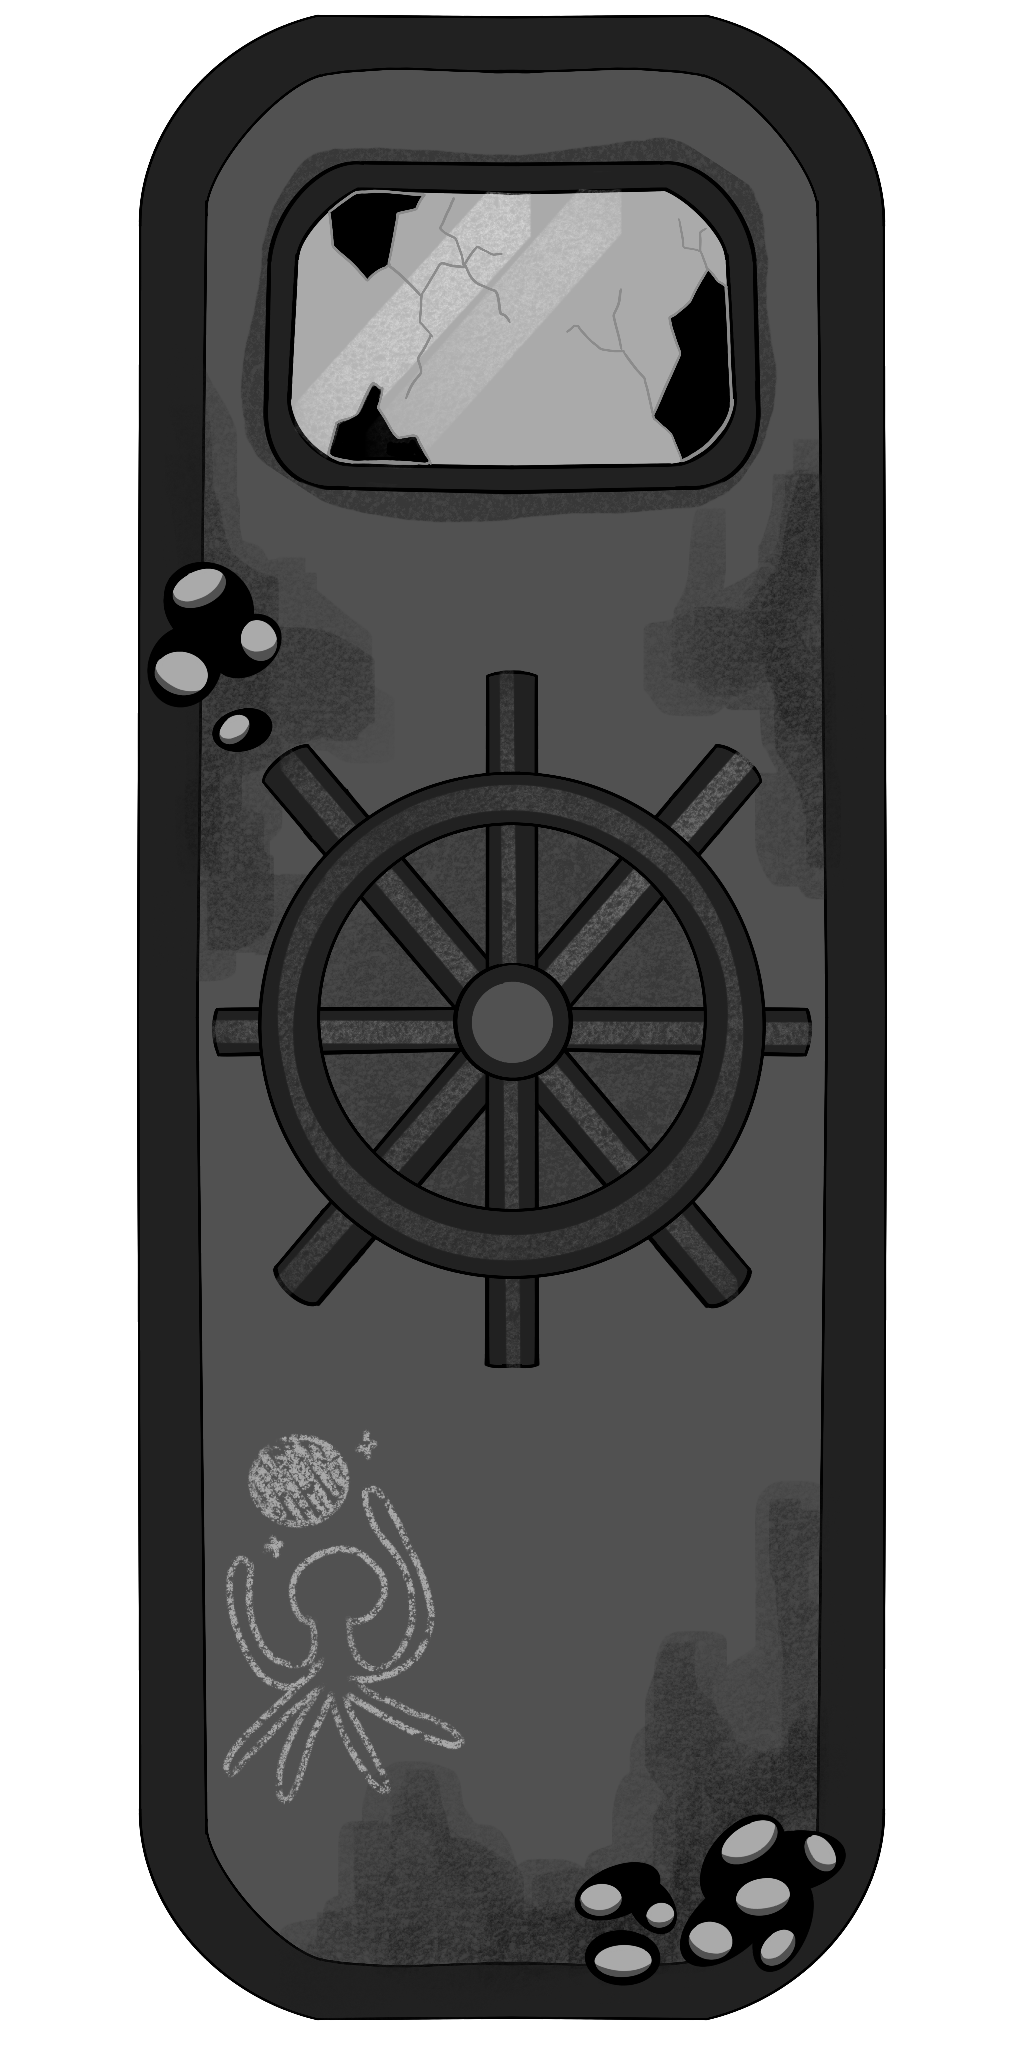
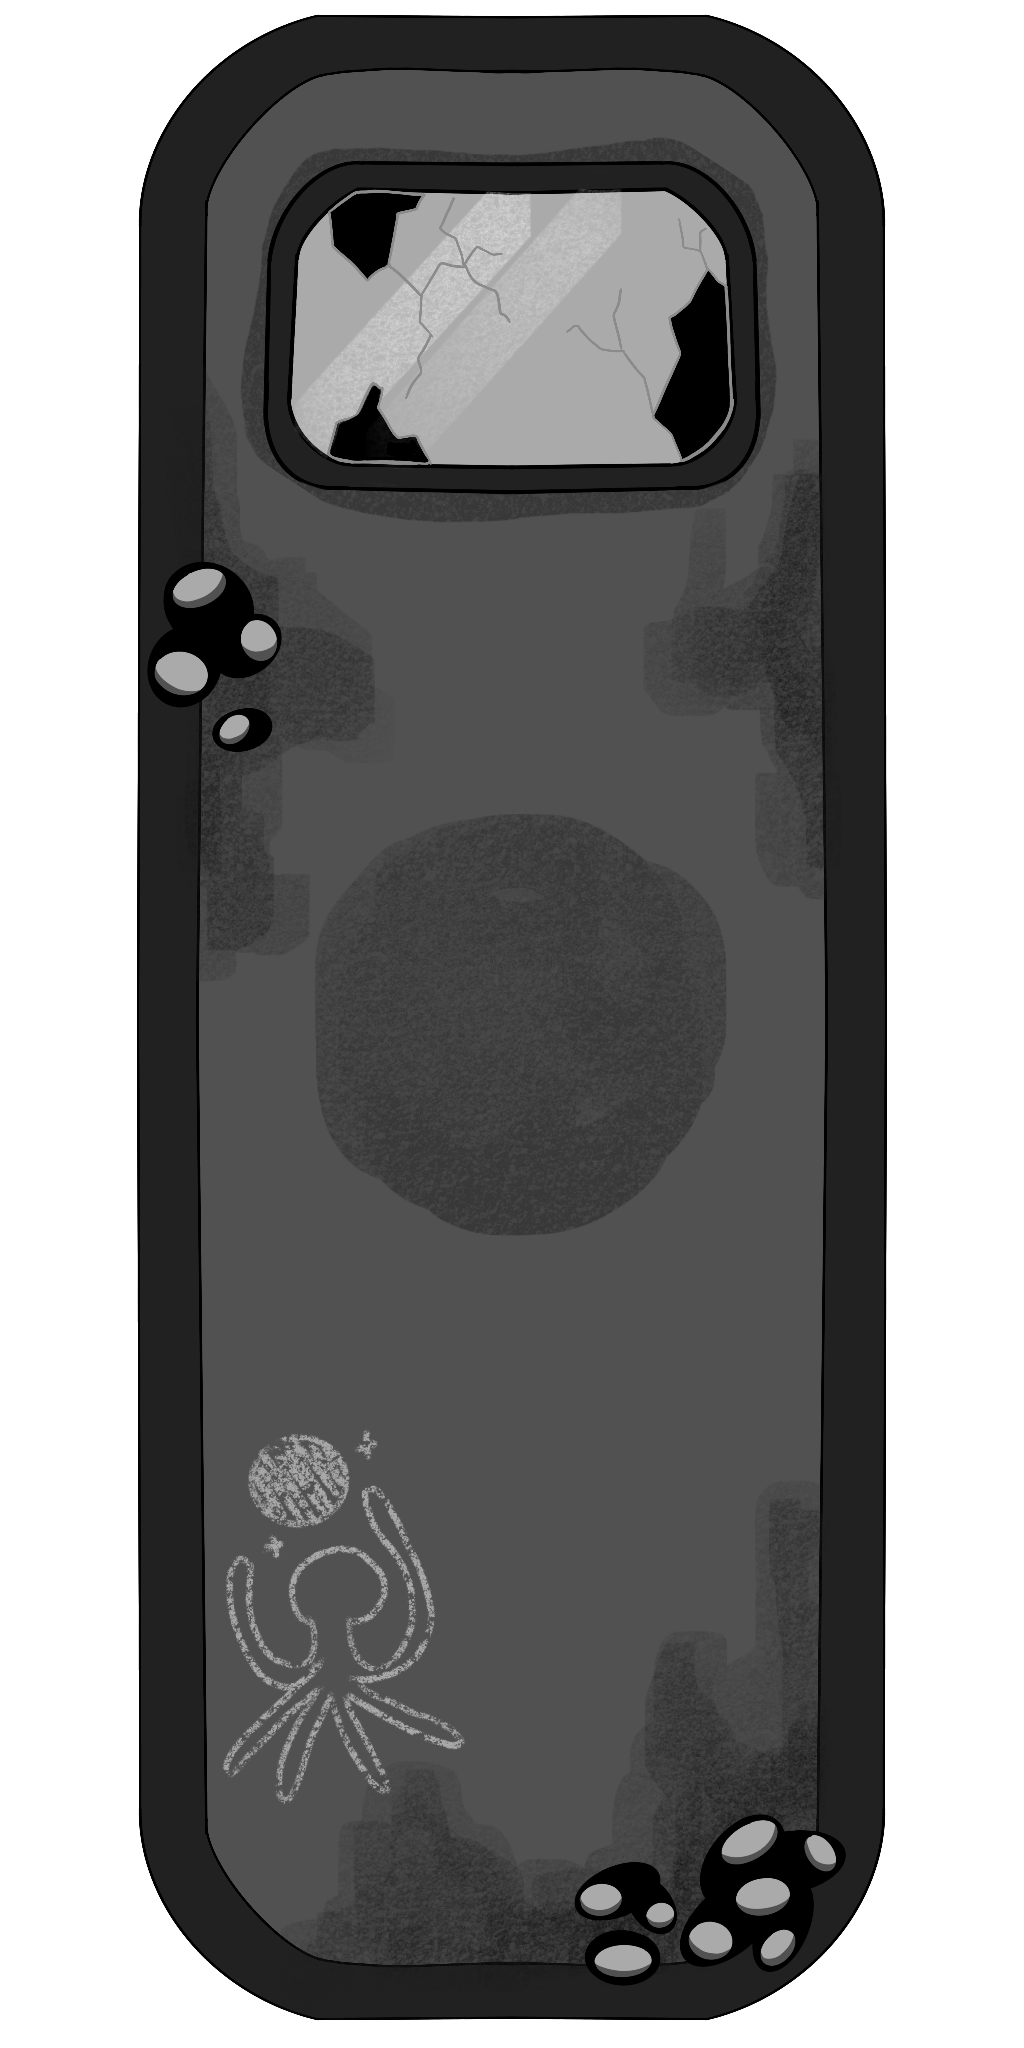
Add door and wheel to the pipline

Changed region(s): [[0.1875, 0.3125, 0.8125, 0.6875]]

diff --git a/Maekfile.js b/Maekfile.js
@@ -147,6 +147,7 @@ let copies = [
 	maek.COPY('assets/level2/worm.png', 'dist/level2/worm.png'),
 	maek.COPY('assets/level2/ruins_background.png', 'dist/level2/ruins_background.png'),
 	maek.COPY('assets/level2/door.png', 'dist/level2/door.png'),
+	maek.COPY('assets/level2/door_wheel.png', 'dist/level2/door_wheel.png'),
 	maek.COPY('assets/level2/pipe.png', 'dist/level2/pipe.png'),
 	maek.COPY('assets/sound/modified_big_fish_roar.opus', 'dist/modified_big_fish_roar.opus'),
 	maek.COPY('assets/sound/modified_big_fish_roar1.opus', 'dist/modified_big_fish_roar1.opus'),

diff --git a/level2.cpp b/level2.cpp
@@ -82,7 +82,8 @@ Level2::Level2(SpriteTexture const &normal_texture, float fish_height, float max
 	small_fish_fast_speed(mimic_speed_multiplier * max_swim_speed),
 	fish_eyes_texture(data_path("level2/small_fish_eyes.png")),
 	fish_group_speed(fish_group_speed_multiplier * max_swim_speed),
-	door_texture(data_path("level2/door.png")), pipe_texture(data_path("level2/pipe.png")) {
+	door_texture(data_path("level2/door.png")), door_wheel_texture(data_path("level2/door_wheel.png")),
+	pipe_texture(data_path("level2/pipe.png")) {
 }
 	
 void Level2::setup_tunnel(UnderwaterPhysics &physics) {
@@ -1057,6 +1058,7 @@ void Level2::draw(DrawSprites const &sprites, glm::mat4 const &world_to_clip, Un
 	const glm::vec2 door_center(glm::mix(physics.bounds_min.x, physics.bounds_max.x, door_fraction),
 		physics.bounds_min.y + 0.5f * door_height);
 	sprites.draw(door_texture, world_to_clip, door_center, door_size, 0.0f);
+	sprites.draw(door_wheel_texture, world_to_clip, door_center, door_size, 0.0f);
 }
 
 void Level2::draw_fish(DrawSprites const &sprites, glm::mat4 const &world_to_clip,

diff --git a/level2.hpp b/level2.hpp
@@ -216,6 +216,7 @@ private:
 	 * Door Puzzle
 	 */
 	SpriteTexture door_texture;
+	SpriteTexture door_wheel_texture;
 	static constexpr float door_fraction = 7.0f / 8.0f; // door should be around 7/8 of the puzzle
 	static constexpr float door_height = 6.0f;
 	SpriteTexture pipe_texture;
